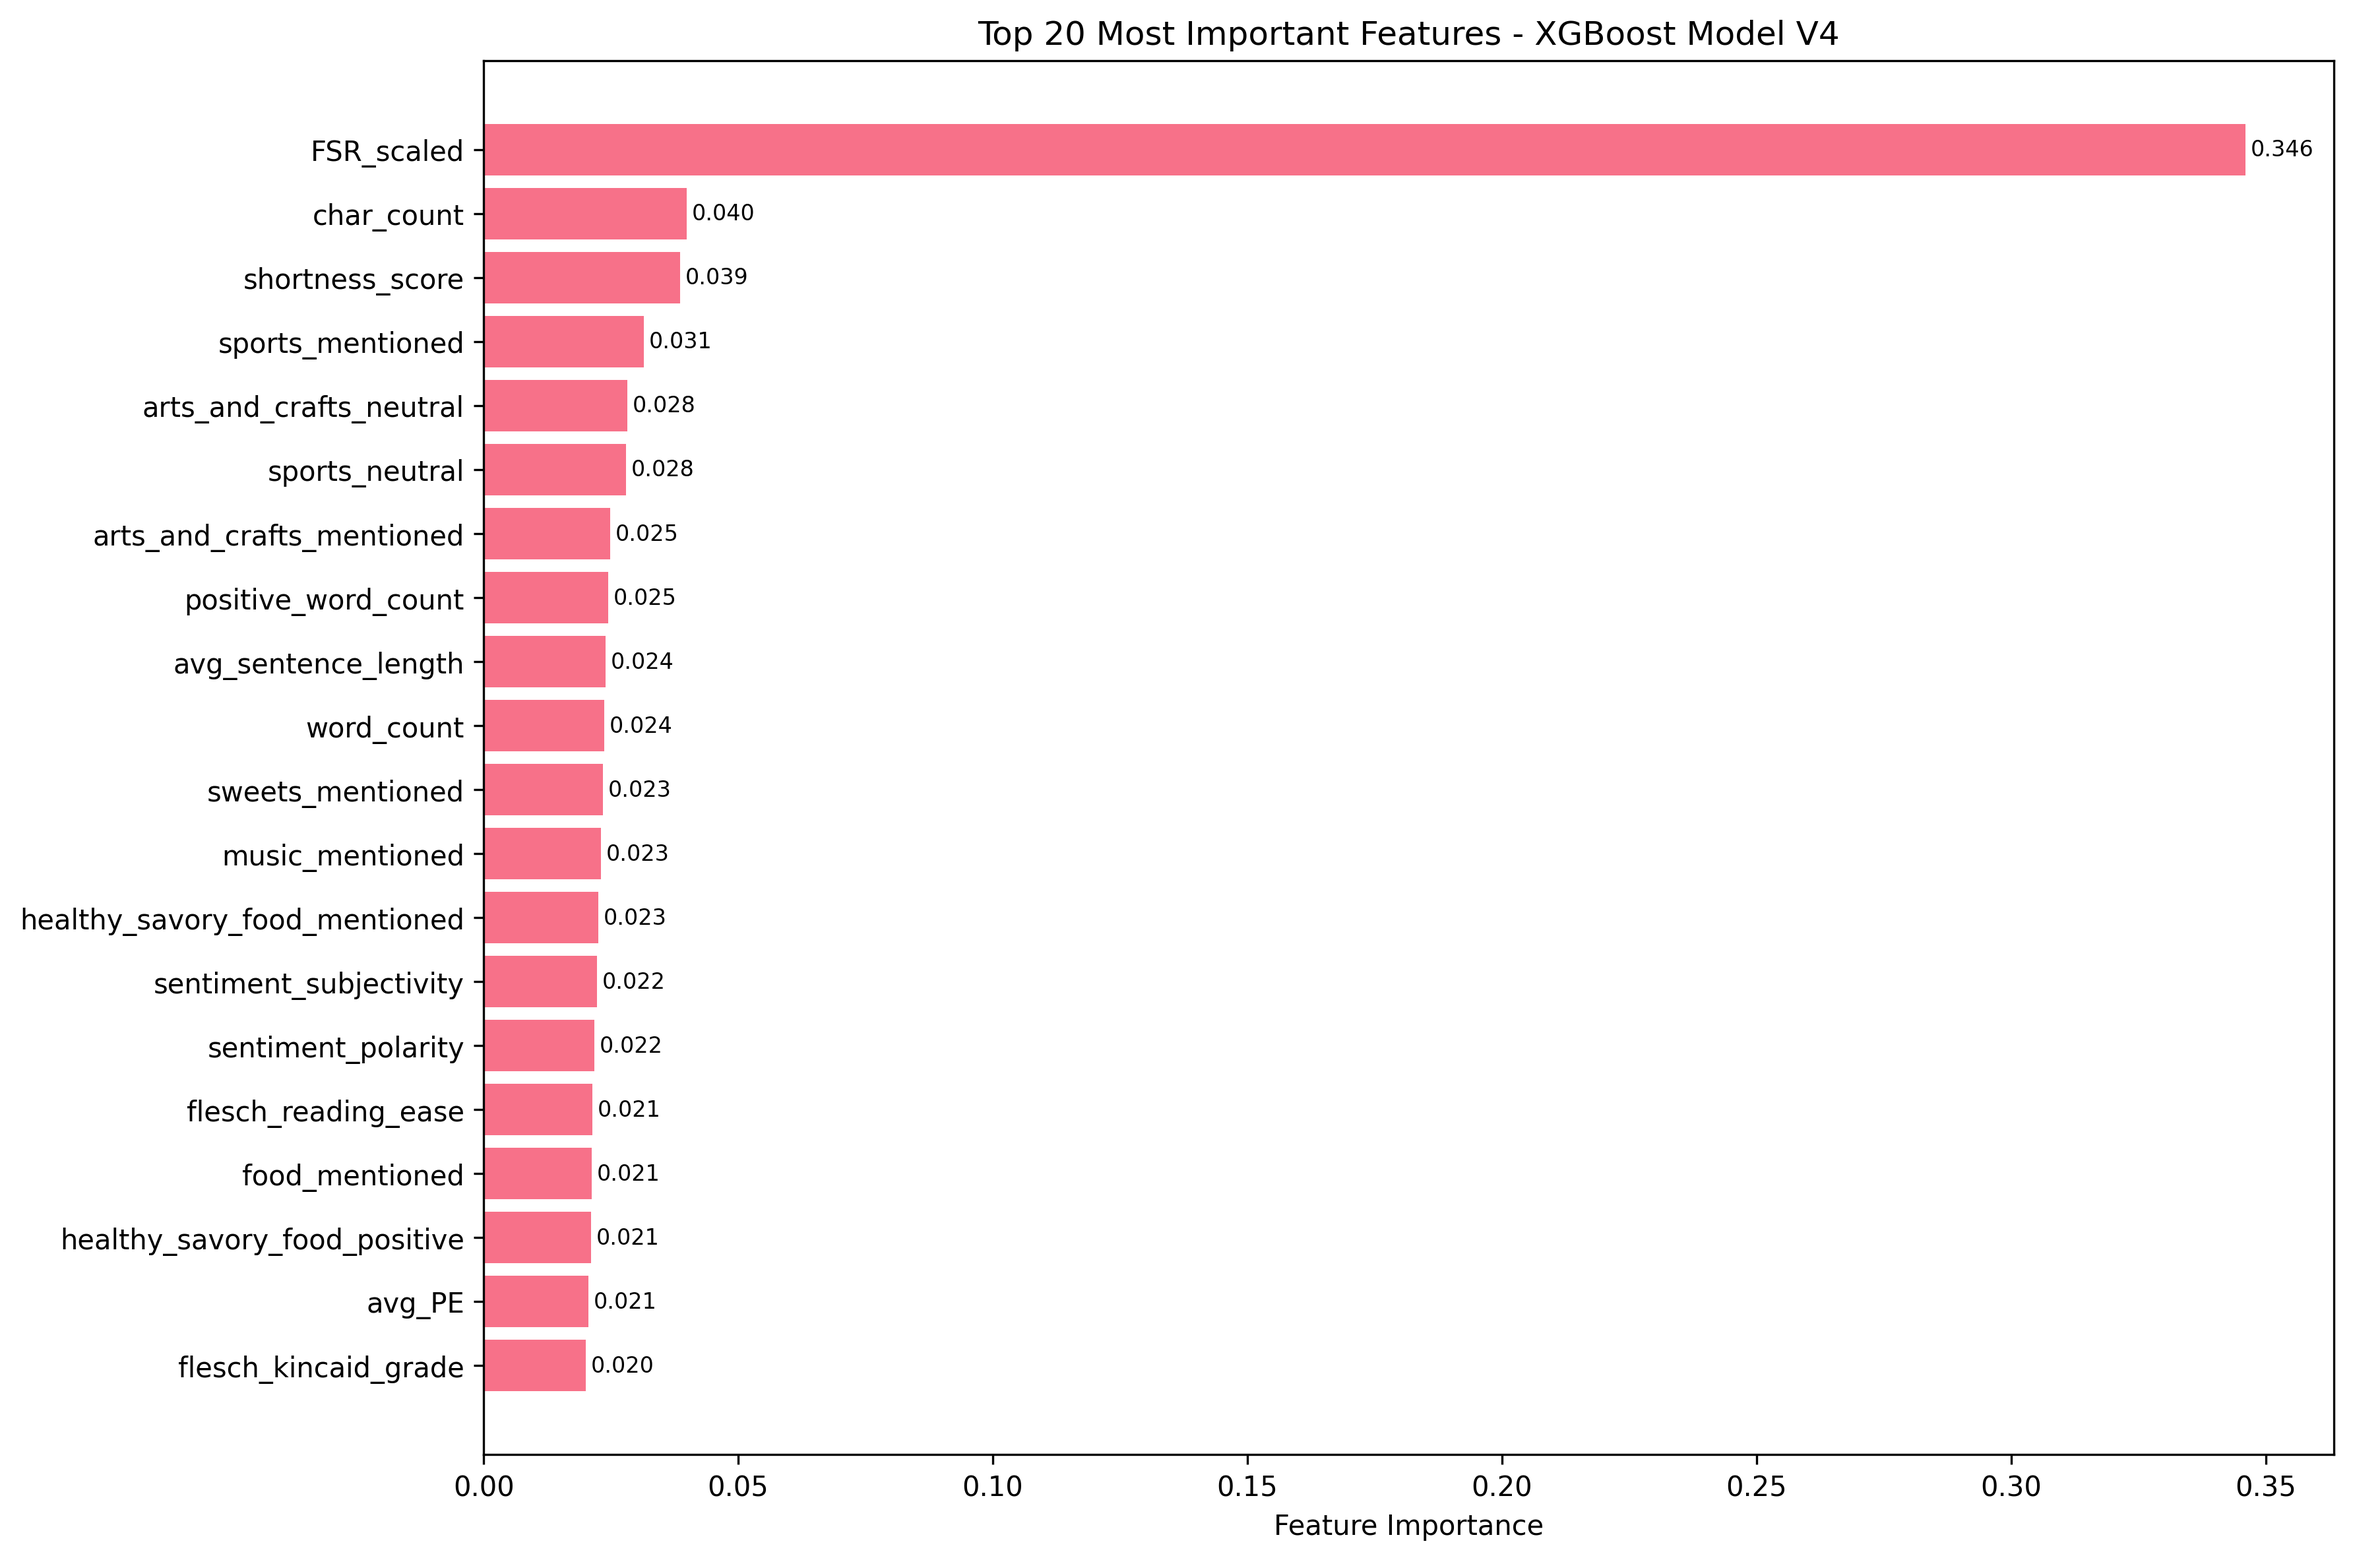
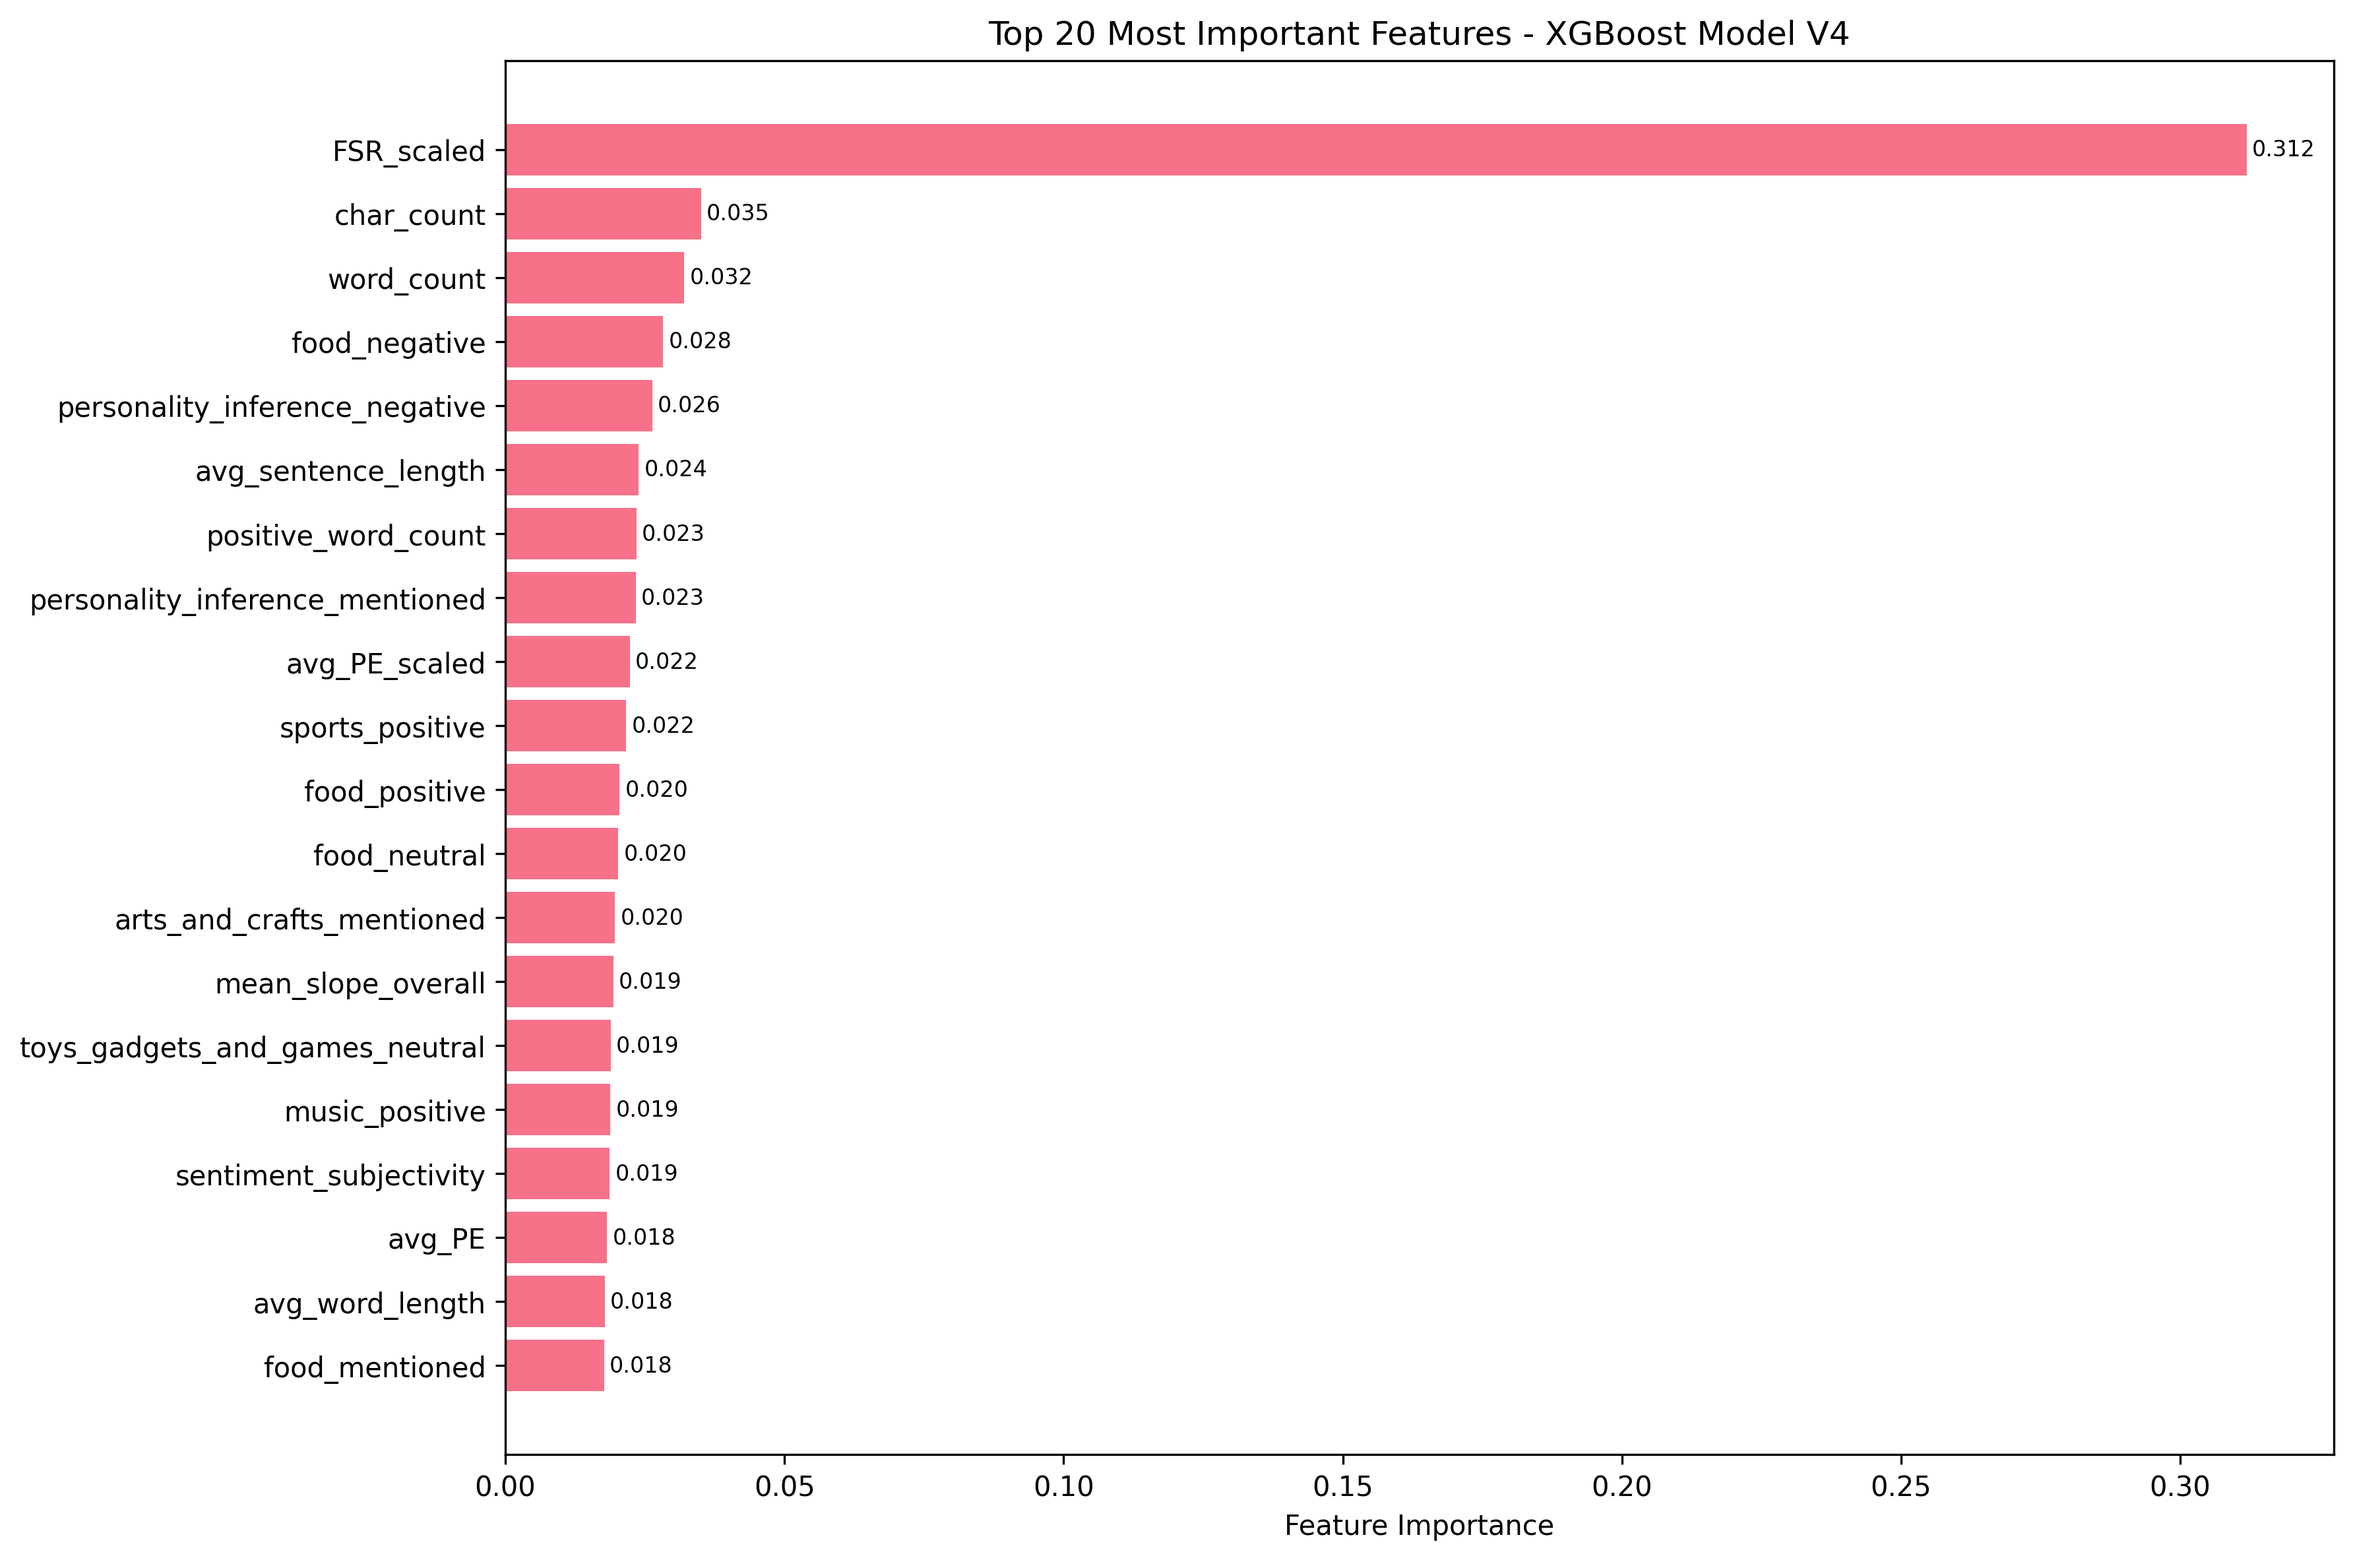
V4 Model With Results

diff --git a/src/Model_V4/trial_data_preprocess.py b/src/Model_V4/trial_data_preprocess.py
@@ -1,0 +1,122 @@
+import argparse
+from pathlib import Path
+import numpy as np
+import pandas as pd
+
+data_version = "Data_v4"
+
+def count_non_na(s: pd.Series) -> int:
+    return int(s.notna().sum())
+
+def safe_slope(trial: pd.Series, pe: pd.Series) -> float:
+    x = trial.to_numpy()
+    y = pe.to_numpy()
+    m = ~pd.isna(x) & ~pd.isna(y)
+    x, y = x[m], y[m]
+    if x.size < 2:
+        return np.nan
+    var_x = np.var(x, ddof=1)
+    if var_x <= 0:
+        return np.nan
+    cov_xy = np.cov(x, y, ddof=1)[0, 1]
+    return float(cov_xy / var_x)
+
+def weighted_mean(values: pd.Series, weights: pd.Series) -> float:
+    m = (~values.isna()) & (~weights.isna())
+    v, w = values[m], weights[m]
+    if w.sum() == 0 or v.empty:
+        return np.nan
+    return float((v * w).sum() / w.sum())
+
+def preprocess_trial_data():
+    current_dir = Path(__file__).parent
+    project_root = current_dir.parent.parent
+
+    in_path = project_root / "data" / data_version / f"LLM Trial Level Data.csv"
+    out_path = project_root / "data" / data_version / f"Processed_Trial_Level_Data.csv"
+
+    out_path.parent.mkdir(parents=True, exist_ok=True)
+
+    df = pd.read_csv(in_path)
+    required = {"sub", "profile", "subcat", "trial", "PE"}
+    miss = required - set(df.columns)
+    if miss:
+        raise ValueError(f"Missing required columns: {miss}")
+
+    # ----- trial counts (optional print)
+    trial_counts = (
+        df.groupby(["sub", "profile", "subcat"], dropna=False)
+        .agg(n_trials=("trial", count_non_na))
+        .reset_index()
+    )
+    avg_trial_counts = (
+        trial_counts.groupby("subcat", dropna=False)
+        .agg(avg_n_trials=("n_trials", "mean"))
+        .reset_index()
+    )
+
+    print("\nAverage trials per subcat:")
+    print(avg_trial_counts.sort_values("subcat").to_string(index=False))
+
+    # ----- slopes within (sub, profile, subcat)
+    df_non_na = df[~df["PE"].isna()].copy()
+
+    def slope_and_n(g: pd.DataFrame) -> pd.Series:
+        return pd.Series({
+            "slope": safe_slope(g["trial"], g["PE"]),
+            "n_trials": len(g)
+        })
+
+    subcat_slopes = (
+        df_non_na.groupby(["sub", "profile", "subcat"], dropna=False)
+        .apply(slope_and_n)
+        .reset_index()
+    )
+
+    # ----- weighted mean by profile within each sub
+    slopes_non_nan = subcat_slopes.dropna(subset=["slope"]).copy()
+
+    by_profile = (
+        slopes_non_nan.groupby(["sub", "profile"], dropna=False)
+        .apply(lambda g: pd.Series({
+            "mean_slope": weighted_mean(g["slope"], g["n_trials"]),
+            "n_subcats": len(g)
+        }))
+        .reset_index()
+    )
+
+    # Merge with a skeleton of all (sub, profile) present in subcat_slopes
+    skeleton = subcat_slopes[["sub", "profile"]].drop_duplicates()
+    by_profile = skeleton.merge(by_profile, on=["sub", "profile"], how="left")
+
+    # ----- overall weighted mean per sub
+    overall = (
+        slopes_non_nan.groupby("sub", dropna=False)
+        .apply(lambda g: pd.Series({
+            "mean_slope_overall": weighted_mean(g["slope"], g["n_trials"])
+        }))
+        .reset_index()
+    )
+
+    # ----- final: long format + overall repeated per sub
+    final_df = (
+        by_profile.merge(overall, on="sub", how="left")
+        .drop(columns=["n_subcats"])
+        .sort_values(["sub", "profile"])
+        .reset_index(drop=True)
+    )
+
+    # Order columns to match your example
+    final_df = final_df[["sub", "profile", "mean_slope", "mean_slope_overall"]]
+
+    # Write with NA literal for missing values
+    final_df.to_csv(out_path, index=False, na_rep="NA")
+
+    print(f"\nProcessed Trial Level Data and saved to: {out_path}")
+    print("\nPreview:")
+    print(final_df.head(12).to_string(index=False))
+    return final_df
+
+
+if __name__ == "__main__":
+    processed_trial_data = preprocess_trial_data()

diff --git a/src/Model_V4/data_preprocessor.py b/src/Model_V4/data_preprocessor.py
@@ -30,9 +30,10 @@ data_version = "Data_v4"
 model_version = "V4"
 
 # from sonnet_agent import SonnetAgent
-from llama_agent import MetaLlamaAgent as SonnetAgent
-# from qwen_agent import QwenAgent as SonnetAgent
+# from llama_agent import MetaLlamaAgent as SonnetAgent
+from qwen_agent import QwenAgent as SonnetAgent
 # from mistral_agent import MistralAgent as SonnetAgent
+from trial_data_preprocess import preprocess_trial_data
 
 try:
     nltk.data.find('tokenizers/punkt')
@@ -55,13 +56,19 @@ def preprocess_training_data():
     # df = df.sample(n=200, random_state=42)
     print(f"Original data shape: {df.shape}")
 
+    print(f"Loading Trial Level Data :")
+    trial_df = preprocess_trial_data()
+
+    print("Merging Trial Level data with Base Dataset:")
+    merged_df = pd.merge(df, trial_df, on=["sub", "profile"], how="inner")
+
     artifacts_dir = project_root / "Results" / model_version / "preprocessing"
     artifacts_dir.mkdir(parents=True, exist_ok=True)
 
-    selected_columns = ['FSR', 'avg_PE', 'free_response', 'td_or_asd']
-    df_filtered = df[selected_columns].copy()
+    selected_columns = ['sub', 'profile', 'FSR', 'avg_PE', 'free_response', 'td_or_asd', 'mean_slope', 'mean_slope_overall']
+    df_filtered = merged_df[selected_columns].copy()
 
-    df_filtered = df_filtered.dropna(subset=['FSR', 'avg_PE', 'free_response'])
+    df_filtered = df_filtered.dropna(subset=['FSR', 'avg_PE', 'free_response','mean_slope', 'mean_slope_overall'])
 
     preprocessing_info = {
         'original_shape': df.shape,

diff --git a/src/Model_V4/xgboost_model.py b/src/Model_V4/xgboost_model.py
@@ -43,7 +43,7 @@ class XGBoostClassifier:
         return df
     
     def prepare_features(self, df):
-        exclude_columns = ['FSR', 'free_response', 'td_or_asd']
+        exclude_columns = ['sub', 'profile', 'FSR', 'free_response', 'td_or_asd']
         
         feature_columns = []
         for col in df.columns:
